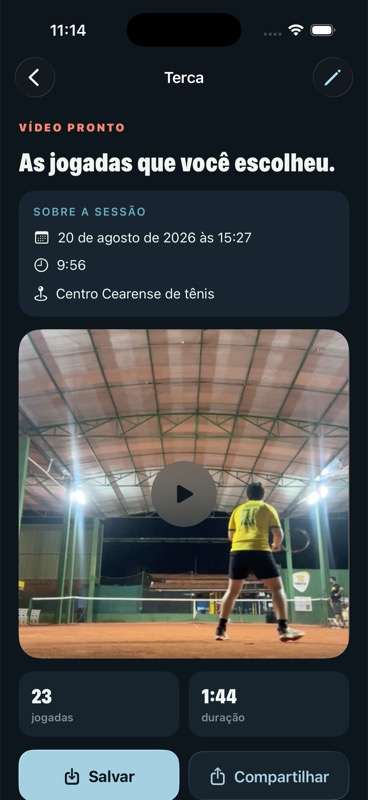
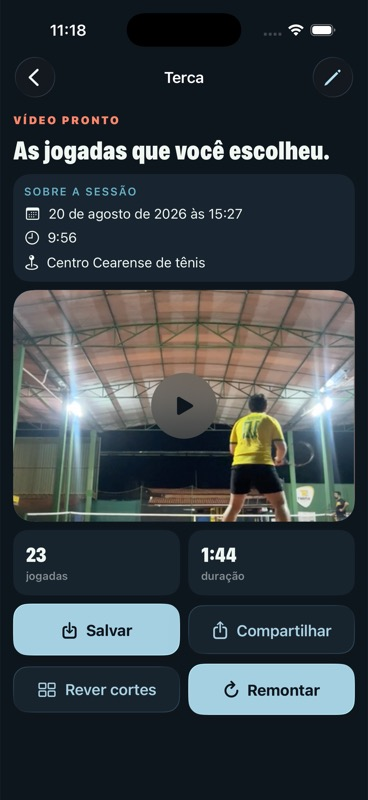
fix(ios): fit completed session on screen

diff --git a/ios/app/views/CompletedSessionView.swift b/ios/app/views/CompletedSessionView.swift
@@ -8,34 +8,61 @@ struct CompletedSessionView: View {
     let session: TennisSession
 
     var body: some View {
-        ScrollView {
+        GeometryReader { proxy in
             if let outputURL = model.outputURL(for: session) {
-                VStack(alignment: .leading, spacing: 14) {
-                    Text("VÍDEO PRONTO").font(.caption.weight(.black)).tracking(1.7).foregroundStyle(AppPalette.clayMark)
-                    Text("As jogadas que você escolheu.").displayType(size: 32).foregroundStyle(AppPalette.ink)
-                    SessionMetadataSummary(session: session)
+                VStack(alignment: .leading, spacing: 9) {
+                    Text("VÍDEO PRONTO")
+                        .font(.caption.weight(.black))
+                        .tracking(1.7)
+                        .foregroundStyle(AppPalette.clayMark)
+                    Text("As jogadas que você escolheu.")
+                        .displayType(size: 32)
+                        .foregroundStyle(AppPalette.ink)
+                        .lineLimit(1)
+                        .minimumScaleFactor(0.84)
+                    SessionMetadataSummary(session: session, compact: true)
                     FinalVideoPlayer(url: outputURL)
-                        .frame(height: 360)
-                        .clipShape(RoundedRectangle(cornerRadius: 24, style: .continuous))
-                    HStack(spacing: 10) {
+                        .frame(height: playerHeight(for: proxy.size.height))
+                        .clipShape(.rect(cornerRadius: 22))
+                    HStack(spacing: 9) {
                         SummaryMetric(value: String(session.keptClips.count), label: "jogadas")
                         SummaryMetric(value: session.compiledDuration.shortDuration, label: "duração")
                     }
-                    HStack(spacing: 10) {
-                        Button { Task { await model.saveCompilation(session) } } label: { Label("Salvar", systemImage: "square.and.arrow.down") }
-                            .buttonStyle(PrimaryActionButtonStyle())
-                        ShareLink(item: outputURL) { Label("Compartilhar", systemImage: "square.and.arrow.up") }
-                            .buttonStyle(QuietActionButtonStyle())
-                    }
-                    NavigationLink(value: AppRoute.montage(session.id)) { Label("Rever jogadas e cortes", systemImage: "rectangle.grid.2x2") }
-                        .buttonStyle(QuietActionButtonStyle())
-                    Button { model.compile(session, context: modelContext) } label: { Label("Montar novamente", systemImage: "arrow.clockwise") }
+                    HStack(spacing: 9) {
+                        Button {
+                            Task { await model.saveCompilation(session) }
+                        } label: {
+                            Label("Salvar", systemImage: "square.and.arrow.down")
+                        }
                         .buttonStyle(PrimaryActionButtonStyle())
+                        ShareLink(item: outputURL) {
+                            Label("Compartilhar", systemImage: "square.and.arrow.up")
+                        }
+                        .buttonStyle(QuietActionButtonStyle())
+                    }
+                    HStack(spacing: 9) {
+                        NavigationLink(value: AppRoute.montage(session.id)) {
+                            Label("Rever cortes", systemImage: "rectangle.grid.2x2")
+                        }
+                        .buttonStyle(QuietActionButtonStyle())
+                        Button {
+                            model.compile(session, context: modelContext)
+                        } label: {
+                            Label("Remontar", systemImage: "arrow.clockwise")
+                        }
+                        .buttonStyle(PrimaryActionButtonStyle())
+                    }
                 }
-                .padding(.horizontal, 20)
-                .padding(.vertical, 16)
+                .padding(.horizontal, 14)
+                .padding(.vertical, 8)
             }
         }
+    }
+
+    private func playerHeight(for availableHeight: CGFloat) -> CGFloat {
+        let titleStatusAllowance: CGFloat = session.titleOrigin == .automatic
+            && session.automaticTitleState != .generated ? 72 : 0
+        return min(max(availableHeight * 0.35 - titleStatusAllowance, 128), 260)
     }
 }
 

diff --git a/ios/app/components/SessionMetadataSummary.swift b/ios/app/components/SessionMetadataSummary.swift
@@ -2,9 +2,10 @@ import SwiftUI
 
 struct SessionMetadataSummary: View {
     let session: TennisSession
+    var compact = false
 
     var body: some View {
-        VStack(alignment: .leading, spacing: 12) {
+        VStack(alignment: .leading, spacing: compact ? 8 : 12) {
             Text("SOBRE A SESSÃO")
                 .font(.caption.bold())
                 .tracking(1.4)
@@ -30,7 +31,7 @@ struct SessionMetadataSummary: View {
         .font(.subheadline)
         .foregroundStyle(AppPalette.ink)
         .frame(maxWidth: .infinity, alignment: .leading)
-        .padding(16)
+        .padding(compact ? 12 : 16)
         .background(AppPalette.courtMist.opacity(0.58), in: .rect(cornerRadius: 18))
     }
 }
